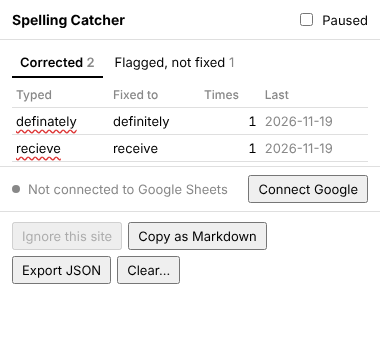
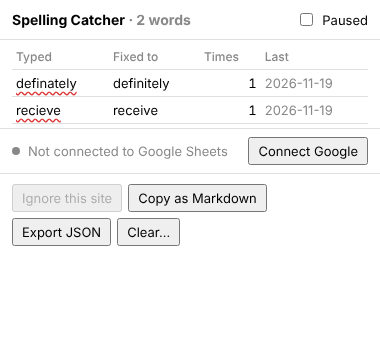
Retain only user-made corrections
Drop the flagged-but-unfixed word list and per-site counts. The content
script now forwards only edits to finished words, and the background keeps
nothing but misspelled->fixed pairs the user made themselves. Existing
flagged/site data is removed on update. Popup shows the corrections list only.

Claude-Session: https://claude.ai/code/session_01C4tY3D9NwVhnRXhvV5bJBe

diff --git a/extension/popup.js b/extension/popup.js
@@ -1,6 +1,5 @@
 'use strict';
 const $ = (id) => document.getElementById(id);
-let tab = 'corrections';
 let state = {};
 let currentHost = null;
 
@@ -10,29 +9,18 @@ const esc = (s) => s.replace(/[&<>"]/g, (ch) => ({ '&': '&amp;', '<': '&lt;', '>
 
 function render() {
   const corrections = state.corrections || {};
-  const flagged = state.flagged || {};
-  $('n-corrections').textContent = Object.keys(corrections).length || '';
-  $('n-flagged').textContent = Object.keys(flagged).length || '';
-  $('tab-corrections').classList.toggle('on', tab === 'corrections');
-  $('tab-flagged').classList.toggle('on', tab === 'flagged');
+  $('n-corrections').textContent = Object.keys(corrections).length ? `· ${Object.keys(corrections).length} words` : '';
   $('paused').checked = !!state.paused;
   const excluded = (state.excludedSites || []).includes(currentHost);
   $('site').textContent = excluded ? 'Track this site again' : 'Ignore this site';
   $('site').disabled = !currentHost;
 
-  let html;
-  if (tab === 'corrections') {
-    const rows = sorted(corrections);
-    html = rows.length ? `<table><tr><th>Typed</th><th>Fixed to</th><th class="n">Times</th><th>Last</th></tr>` +
+  const rows = sorted(corrections);
+  $('list').innerHTML = rows.length
+    ? `<table><tr><th>Typed</th><th>Fixed to</th><th class="n">Times</th><th>Last</th></tr>` +
       rows.map(([w, c]) => `<tr><td class="wrong">${esc(w)}</td><td>${esc(topFix(c))}</td><td class="n">${c.count}</td><td class="muted">${c.last}</td></tr>`).join('') +
-      `</table>` : `<div class="empty">No corrections caught yet.<br>Misspell something, then fix it.</div>`;
-  } else {
-    const rows = sorted(flagged);
-    html = rows.length ? `<table><tr><th>Word</th><th class="n">Times</th><th></th></tr>` +
-      rows.map(([w, f]) => `<tr><td class="wrong">${esc(w)}</td><td class="n">${f.count}</td><td><button class="x" data-ignore="${esc(w)}">not a typo</button></td></tr>`).join('') +
-      `</table>` : `<div class="empty">Nothing flagged.</div>`;
-  }
-  $('list').innerHTML = html;
+      `</table>`
+    : `<div class="empty">No corrections yet.<br>Only words you misspell and then fix are kept.</div>`;
   renderSync();
 }
 
@@ -66,7 +54,7 @@ $('connect').onclick = async () => {
 $('disconnect').onclick = () => chrome.runtime.sendMessage({ kind: 'disconnect' });
 
 async function load() {
-  state = await chrome.storage.local.get(['corrections', 'flagged', 'paused', 'excludedSites', 'syncStatus', 'sheetUrl', 'outbox']);
+  state = await chrome.storage.local.get(['corrections', 'paused', 'excludedSites', 'syncStatus', 'sheetUrl', 'outbox']);
   render();
 }
 
@@ -74,15 +62,9 @@ function markdown() {
   const rows = sorted(state.corrections || {});
   const lines = ['| Misspelling | Correct | Count | Last seen |', '|---|---|---|---|'];
   for (const [w, c] of rows) lines.push(`| ${w} | ${topFix(c)} | ${c.count} | ${c.last} |`);
-  const flagged = sorted(state.flagged || {});
-  if (flagged.length) {
-    lines.push('', '**Flagged, never corrected:** ' + flagged.map(([w, f]) => `${w} (${f.count})`).join(', '));
-  }
   return lines.join('\n');
 }
 
-$('tab-corrections').onclick = () => { tab = 'corrections'; render(); };
-$('tab-flagged').onclick = () => { tab = 'flagged'; render(); };
 $('paused').onchange = (e) => chrome.storage.local.set({ paused: e.target.checked });
 
 $('site').onclick = async () => {
@@ -107,17 +89,10 @@ $('json').onclick = async () => {
 };
 
 $('clear').onclick = async () => {
-  if (!confirm('Clear all tracked misspellings? Settings and ignored words are kept.')) return;
-  await chrome.storage.local.remove(['corrections', 'flagged']);
+  if (!confirm('Clear the corrections list in this browser? Your Google Sheet is not changed.')) return;
+  await chrome.storage.local.remove(['corrections']);
 };
 
-$('list').onclick = async (e) => {
-  const w = e.target.dataset && e.target.dataset.ignore;
-  if (!w) return;
-  const { ignore = [], flagged = {} } = await chrome.storage.local.get(['ignore', 'flagged']);
-  delete flagged[w];
-  await chrome.storage.local.set({ ignore: [...new Set([...ignore, w])], flagged });
-};
 
 chrome.storage.onChanged.addListener(load);
 chrome.tabs.query({ active: true, currentWindow: true }, ([t]) => {

diff --git a/extension/background.js b/extension/background.js
@@ -1,6 +1,7 @@
-// Judges word events against the dictionary, keeps running totals in
-// chrome.storage.local, and queues confirmed corrections for Google Sheets.
-// Only correction pairs (typed -> fixed) ever leave the machine.
+// Judges edit events against the dictionary. The only thing ever retained is a
+// correction the user made themselves: a misspelled word they changed into a
+// real one (typed -> fixed). Totals live in chrome.storage.local and the same
+// pairs are queued for Google Sheets. Nothing else is stored or sent.
 importScripts('core.js', 'sync.js');
 const { makeChecker } = self.SpellCore;
 const { makeSync, toRow } = self.SpellSync;
@@ -25,51 +26,38 @@ chrome.storage.onChanged.addListener((changes, area) => {
 let chain = Promise.resolve();
 function update(fn) {
   chain = chain.then(async () => {
-    const data = await chrome.storage.local.get(['corrections', 'flagged', 'outbox']);
+    const data = await chrome.storage.local.get(['corrections', 'outbox']);
     data.corrections = data.corrections || {};
-    data.flagged = data.flagged || {};
     data.outbox = data.outbox || [];
     if (fn(data) !== false) await chrome.storage.local.set(data);
   }).catch(err => console.error('spelling-catcher', err));
   return chain;
 }
 
-async function handle(host, events) {
+async function handle(events) {
   const checker = await getChecker();
   const today = new Date().toISOString().slice(0, 10);
-  const hits = [];
-  for (const ev of events) {
-    if (ev.type === 'replace' && checker.isCorrection(ev.from, ev.to)) {
-      hits.push({ kind: 'correction', wrong: ev.from.toLowerCase(), right: ev.to.toLowerCase() });
-    } else if (ev.type === 'typed' && checker.isTypo(ev.word)) {
-      hits.push({ kind: 'flag', word: ev.word.toLowerCase() });
-    }
-  }
+  const hits = events
+    .filter(ev => ev.type === 'replace' && checker.isCorrection(ev.from, ev.to))
+    .map(ev => ({ wrong: ev.from.toLowerCase(), right: ev.to.toLowerCase() }));
   if (!hits.length) return false;
-  let queued = false;
   await update((data) => {
     for (const h of hits) {
-      if (h.kind === 'correction') {
-        const c = data.corrections[h.wrong] ||= { count: 0, fixes: {}, sites: {}, first: today };
-        c.count++;
-        c.fixes[h.right] = (c.fixes[h.right] || 0) + 1;
-        c.sites[host] = (c.sites[host] || 0) + 1; // local only, for the popup
-        c.last = today;
-        data.outbox.push(toRow(h.wrong, h.right));
-        queued = true;
-        const f = data.flagged[h.wrong];
-        if (f && --f.count <= 0) delete data.flagged[h.wrong];
-      } else {
-        // Flagged-but-unfixed words stay on this machine: they could be names,
-        // jargon, or a letters-only secret typed into a plain field.
-        const f = data.flagged[h.word] ||= { count: 0, first: today };
-        f.count++;
-        f.last = today;
-      }
+      const c = data.corrections[h.wrong] ||= { count: 0, fixes: {}, first: today };
+      c.count++;
+      c.fixes[h.right] = (c.fixes[h.right] || 0) + 1;
+      c.last = today;
+      data.outbox.push(toRow(h.wrong, h.right));
     }
   });
-  return queued;
+  return true;
 }
+
+// Drop data kept by earlier versions (unfixed-word list, per-site counts).
+chrome.runtime.onInstalled.addListener(() => update((data) => {
+  chrome.storage.local.remove(['flagged', 'ignore']);
+  for (const c of Object.values(data.corrections)) delete c.sites;
+}));
 
 // ---- Google Sheets sync ----
 const clientId = (chrome.runtime.getManifest().oauth2 || {}).client_id || '';
@@ -95,7 +83,7 @@ chrome.runtime.onStartup.addListener(() => sheets.sync());
 chrome.runtime.onMessage.addListener((msg, sender, reply) => {
   if (!msg) return;
   if (msg.kind === 'events' && Array.isArray(msg.events)) {
-    handle(msg.host || 'unknown', msg.events).then((queued) => { if (queued) syncSoon(); });
+    handle(msg.events).then((queued) => { if (queued) syncSoon(); });
   } else if (msg.kind === 'connect') {
     sheets.sync({ interactive: true, force: true }).then(() => reply(true));
     return true;

diff --git a/test/e2e.js b/test/e2e.js
@@ -38,7 +38,7 @@ const PAGE = `<!doctype html><textarea id="ta"></textarea>
   for (let i = 0; i < 8; i++) { await page.keyboard.press('Backspace'); await pause(120); }
   await type('#ta', 'receive it tommorow');
   await pause();
-  await page.keyboard.press('Enter'); // tommorow stays uncorrected -> flagged
+  await page.keyboard.press('Enter'); // tommorow is never fixed, so it must not be stored anywhere
 
   // Contenteditable: misspell, then fix by clicking back in (Home + arrows).
   await page.click('#ce');
@@ -73,9 +73,11 @@ const PAGE = `<!doctype html><textarea id="ta"></textarea>
   const ok =
     data.corrections?.recieve?.fixes?.receive === 1 &&
     data.corrections?.definately?.fixes?.definitely === 1 &&
-    data.flagged?.tommorow?.count === 1 &&
-    !data.flagged?.secrett && !data.flagged?.recieve &&
-    !data.flagged?.zorkmid && !data.flagged?.qwrtyp &&
+    // Nothing is kept unless the user fixed it: no unfixed-word list, no sites,
+    // nothing from the password / show-password / one-time-code fields.
+    !('flagged' in data) &&
+    Object.values(data.corrections).every(c => !('sites' in c)) &&
+    !/tommorow|secrett|zorkmid|qwrtyp|hunter/.test(JSON.stringify(data)) &&
     // Only corrections are queued for Google Sheets, and rows carry no site.
     JSON.stringify((data.outbox || []).map(r => r.row.slice(2))) ===
       JSON.stringify([['recieve', 'receive'], ['definately', 'definitely']]) &&
@@ -89,8 +91,6 @@ const PAGE = `<!doctype html><textarea id="ta"></textarea>
   await popup.goto(`chrome-extension://${extId}/popup.html`);
   await popup.waitForTimeout(300);
   await popup.screenshot({ path: path.join(__dirname, '../docs/popup-corrected.png') });
-  await popup.click('#tab-flagged');
-  await popup.screenshot({ path: path.join(require('os').tmpdir(), 'popup-flagged.png') });
 
   await ctx.close();
   server.close();

diff --git a/extension/content.js b/extension/content.js
@@ -99,7 +99,8 @@
     if (text.length > MAX_TEXT) return;
     let t = trackers.get(el);
     if (!t) { t = new FieldTracker(); trackers.set(el, t); }
-    for (const ev of t.snapshot(text, caret)) queue.push(ev);
+    // Only edits to finished words leave this page; typed words are dropped here.
+    for (const ev of t.snapshot(text, caret)) if (ev.type === 'replace') queue.push(ev);
   }
 
   function flush() {
@@ -107,7 +108,7 @@
     const events = queue;
     queue = [];
     try {
-      chrome.runtime.sendMessage({ kind: 'events', host, events }).catch(() => {});
+      chrome.runtime.sendMessage({ kind: 'events', events }).catch(() => {});
     } catch (_) {
       // Extension was reloaded; this content script is orphaned.
     }

diff --git a/extension/popup.html b/extension/popup.html
@@ -33,13 +33,9 @@
 </head>
 <body>
   <header>
-    <h1>Spelling Catcher</h1>
+    <h1>Spelling Catcher <span id="n-corrections" class="muted"></span></h1>
     <label><input type="checkbox" id="paused"> Paused</label>
   </header>
-  <div class="tabs">
-    <button id="tab-corrections" class="on">Corrected <span id="n-corrections" class="muted"></span></button>
-    <button id="tab-flagged">Flagged, not fixed <span id="n-flagged" class="muted"></span></button>
-  </div>
   <div class="list" id="list"></div>
   <section class="sync">
     <span class="dot" id="dot"></span>

diff --git a/README.md b/README.md
@@ -21,9 +21,7 @@ That's it. The extension creates a **Spelling Catcher** sheet in your Drive with
 
 Only correction pairs — `recieve → receive` plus a timestamp — and only to your own Google Sheet. The extension asks for the `drive.file` scope, so it can see only the files it created, not the rest of your Drive.
 
-Never synced:
-- The text around a word, or what site you were on (both stay local, for the popup).
-- **Flagged-but-unfixed words.** A letters-only password typed into a plain field would look exactly like a misspelling, so these never leave the machine. A password essentially never gets "corrected" into a nearby dictionary word, which is why corrections are safe to sync.
+**Nothing is kept unless you act.** The only thing ever stored — locally or in the sheet — is a misspelled word *you* changed into a real one, by picking Chrome's suggestion or fixing it yourself. Field text is examined in memory while you type and discarded; words you never fix, the text around a word, and what site you were on are not stored anywhere. A password essentially never gets "corrected" into a nearby dictionary word, which is why this is a safe thing to keep.
 
 Never read at all:
 - `type=password` fields, **including after a "show password" toggle** flips them to text.
@@ -38,7 +36,7 @@ Chrome's built-in spellchecker doesn't expose results to extensions, so this run
 
 1. **`content.js`** watches textareas, plain text inputs and contenteditable fields (Gmail, claude.ai, Slack web, …) in every frame and takes a debounced snapshot of the text and caret position.
 2. **`core.js`** diffs consecutive snapshots at the word level. A word counts as *finished* once the caret leaves it. If a finished word is later edited into something else — the right-click suggestion, backspacing and retyping, or clicking back into it — that's a `replace` event. Enter (without Shift) and blur finish the last word, so chat boxes that clear on send are covered.
-3. **`background.js`** judges events against a Hunspell en_US word list. A **correction** is: the original wasn't a word, the result is, and they're within a small edit distance. Corrections go into an outbox.
+3. **`background.js`** receives only those edit events and judges them against a Hunspell en_US word list. A **correction** is: the original wasn't a word, the result is, and they're within a small edit distance. Anything else is dropped; corrections are counted locally and queued in an outbox.
 4. **`sync.js`** appends the outbox to the sheet via the Sheets API (15 s after a correction, and every 5 min), recreating the sheet if you delete it.
 
 ## Developer setup (one time)
